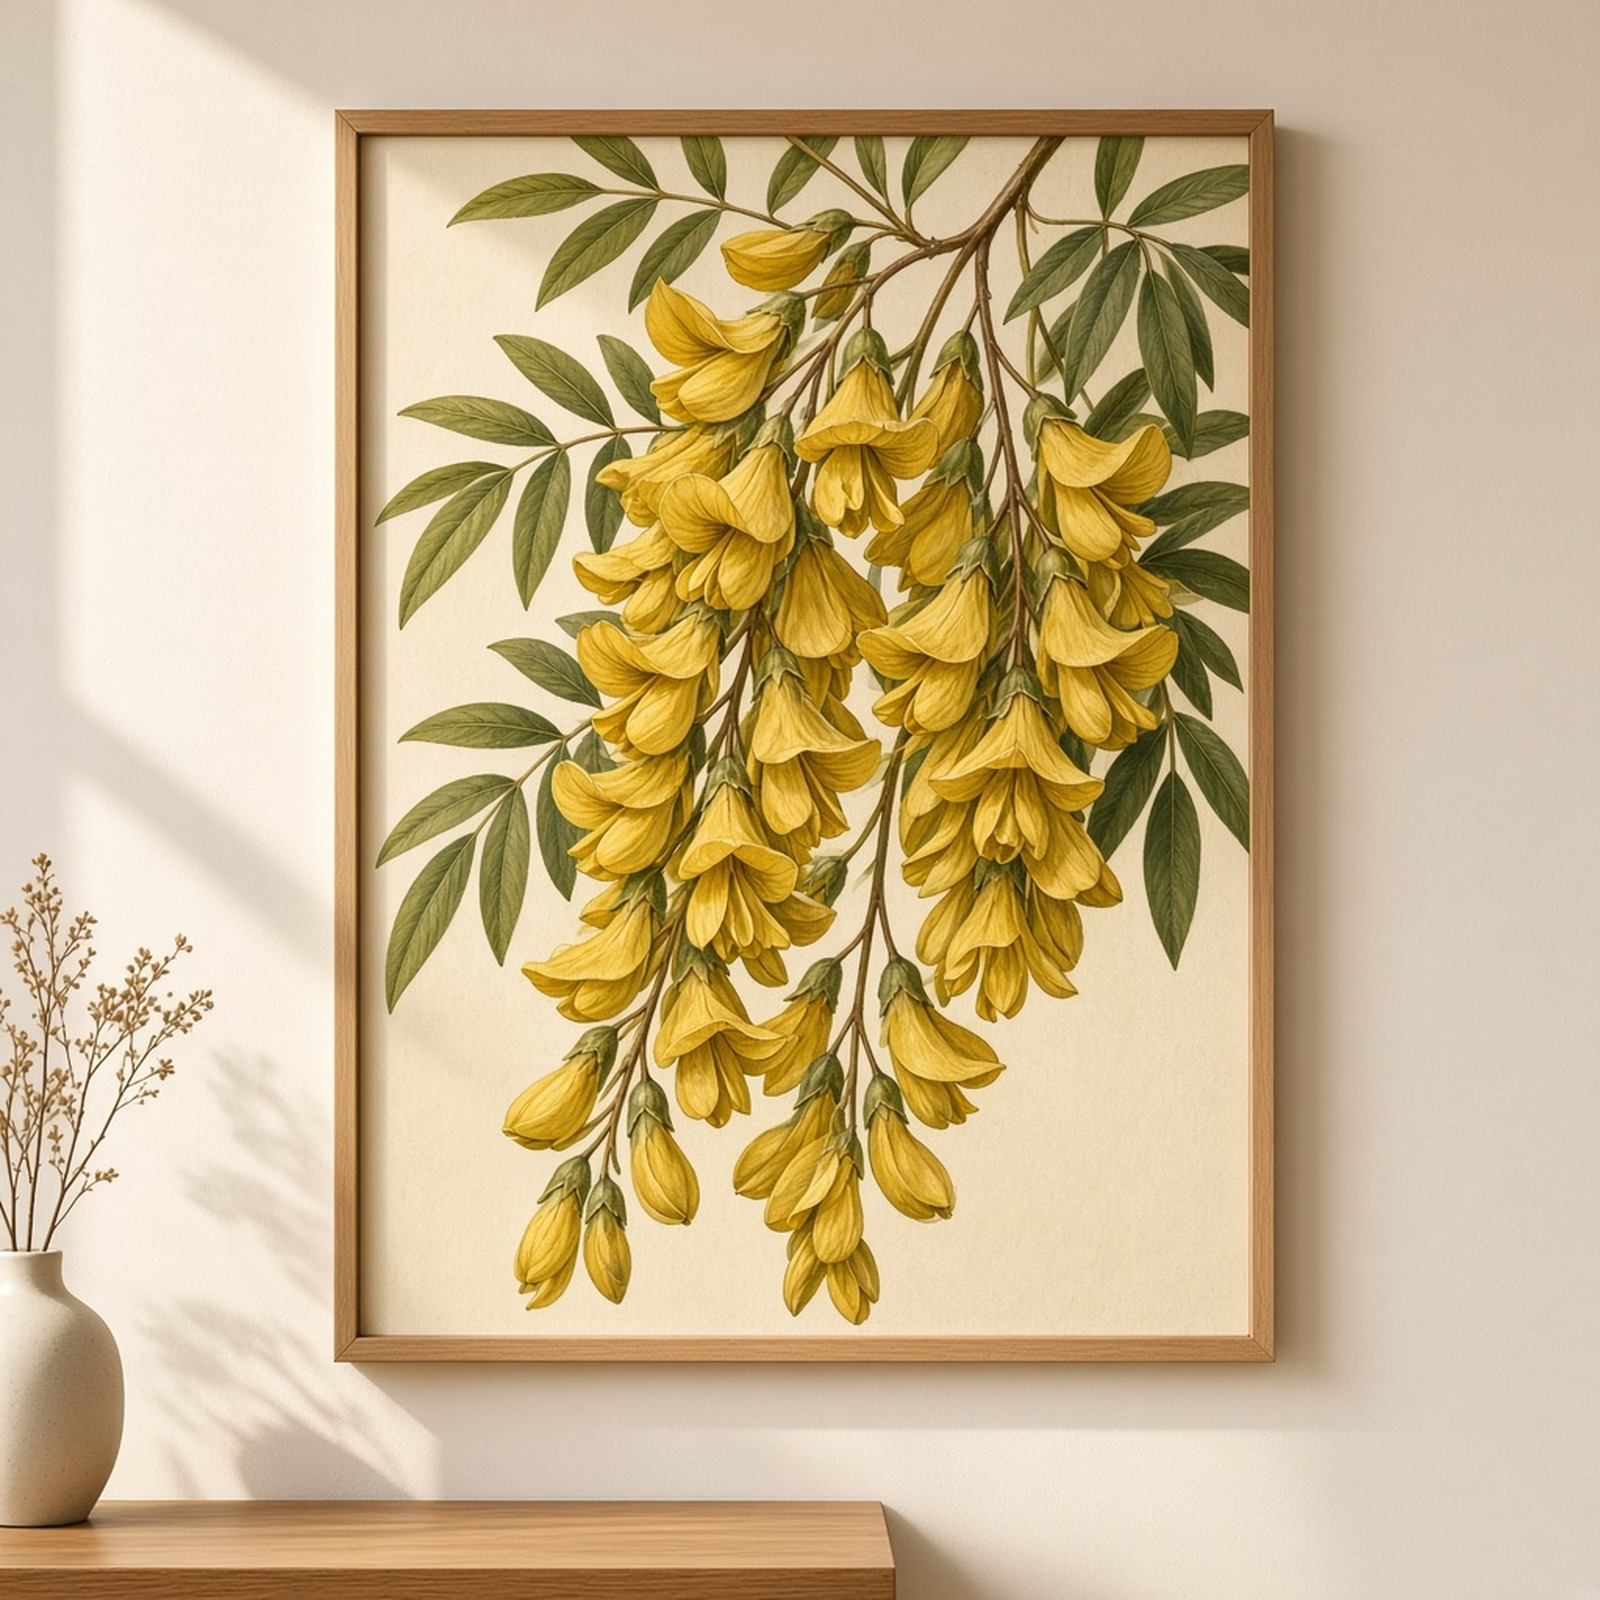
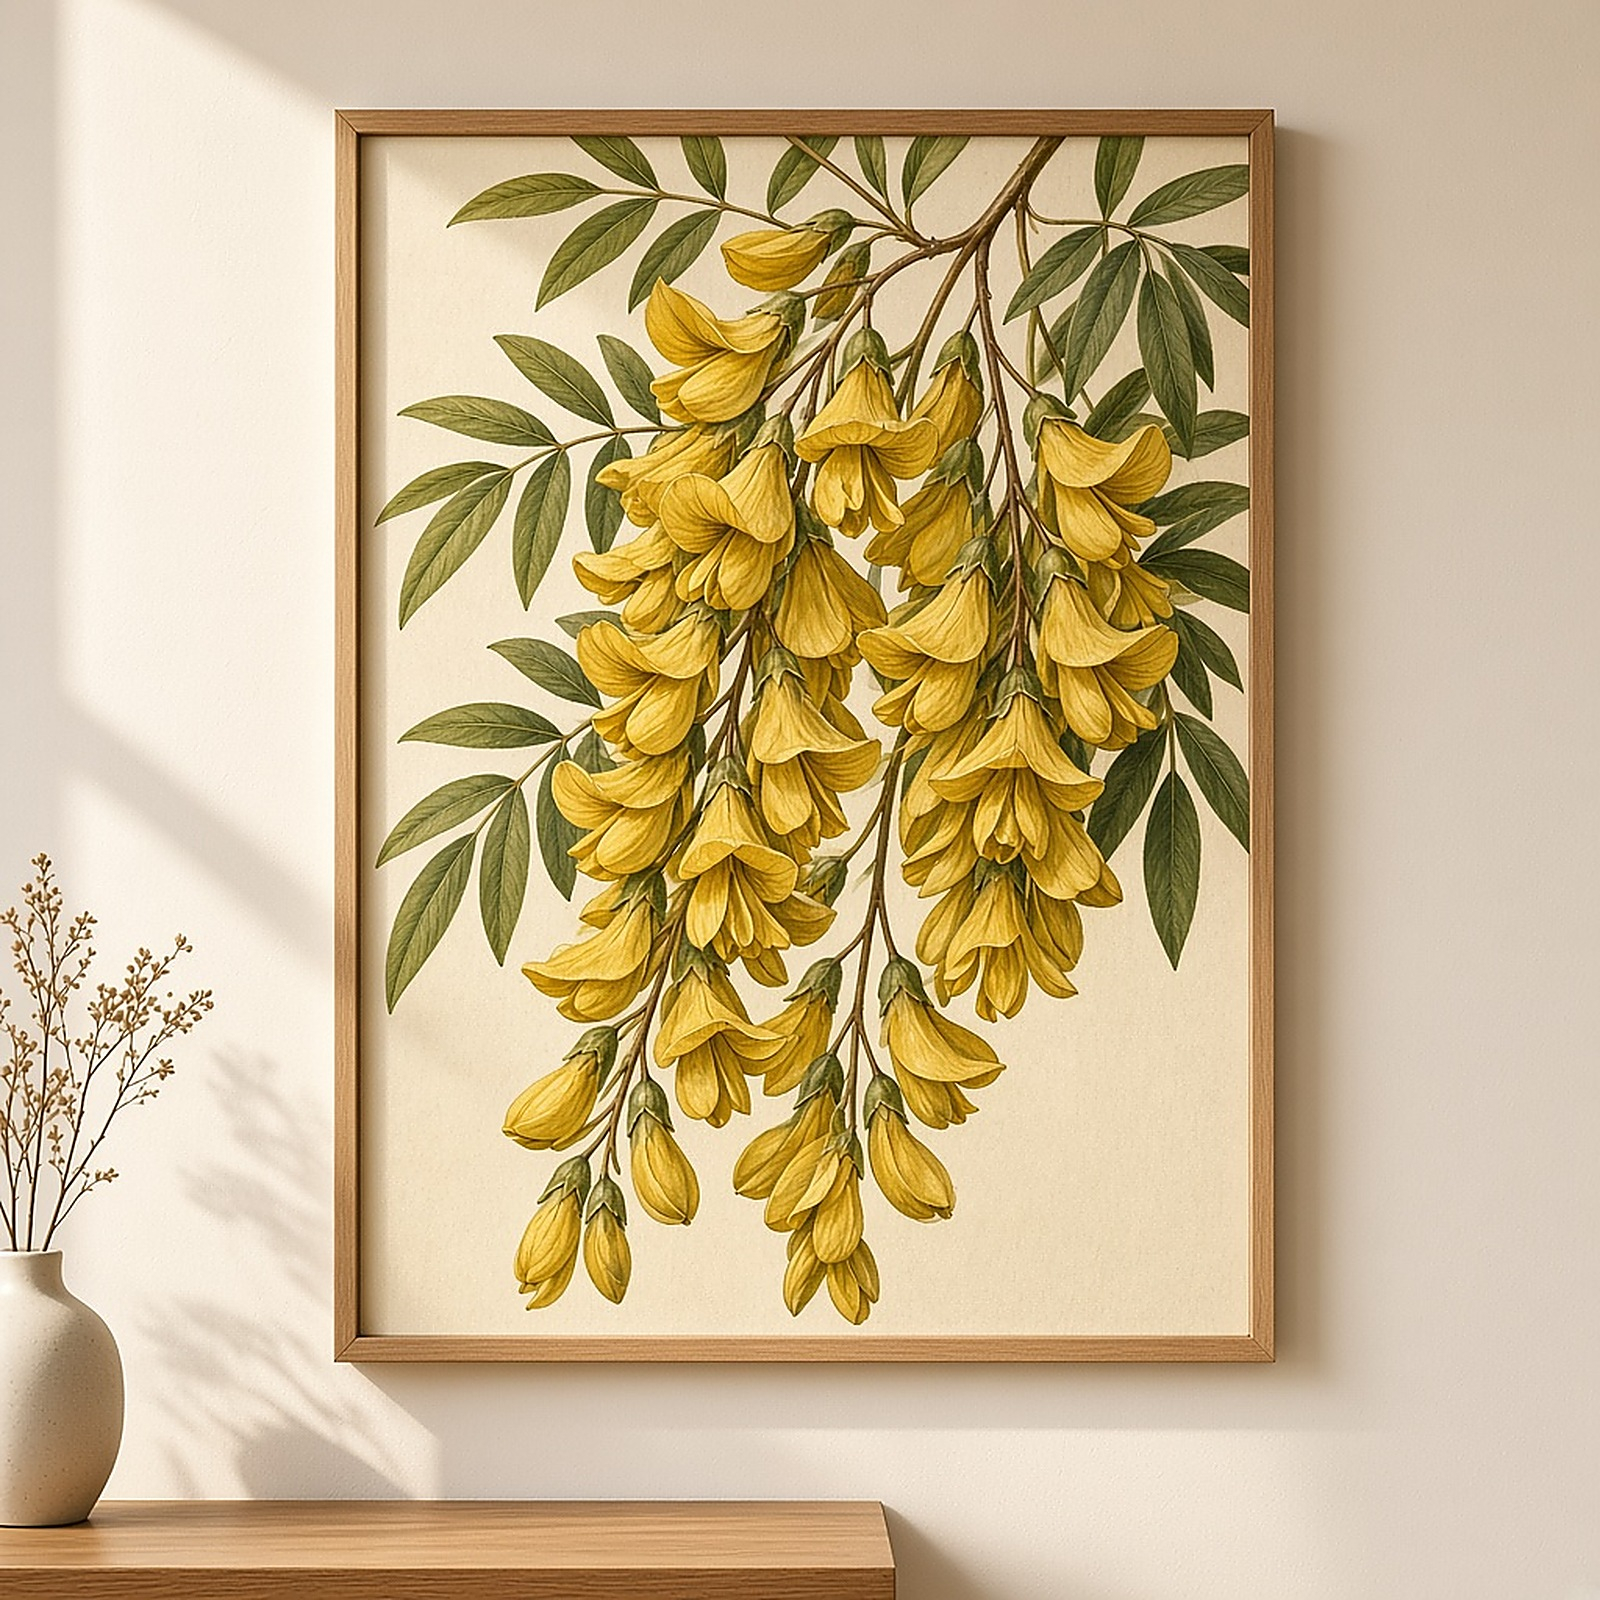
Tighten on-product stills so the design fills the frame.
Chest embroidery was still a small island of color. Crops now target 50% context and 80% close-up fill, put the close-up first in the gallery, and fail the print-files check if a future product ships a tiny design.

diff --git a/src/lib/listing-health.test.ts b/src/lib/listing-health.test.ts
@@ -42,8 +42,8 @@ test("gallery lists the listing photo, print file, and extra stills", () => {
   assert.ok(files.includes("/catalog/catalog-poster.png"));
   assert.ok(files.includes("/catalog/print-poster-fern-arc.png"));
   assert.ok(files.includes("/catalog/gallery-live_poster-onproduct.jpg"));
-  assert.equal(files[1], "/catalog/gallery-live_poster-onproduct.jpg");
-  assert.equal(files[2], "/catalog/gallery-live_poster-onproduct-close.jpg");
+  assert.equal(files[1], "/catalog/gallery-live_poster-onproduct-close.jpg");
+  assert.equal(files[2], "/catalog/gallery-live_poster-onproduct.jpg");
   const sneakers = listingGallery("live_sneaker_star");
   assert.ok(sneakers.includes("/catalog/catalog-camo-sneakers-angle.jpg"));
   assert.ok(sneakers.includes("/catalog/gallery-live_sneaker_star-camo-model.jpg"));
@@ -59,7 +59,8 @@ test("gallery lists the listing photo, print file, and extra stills", () => {
   assert.ok(hoodie.includes("/catalog/catalog-hoodie-bloom-ash.jpg"));
   assert.ok(hoodie.includes("/catalog/catalog-hoodie-bloom-light-pink.jpg"));
   assert.ok(hoodie.includes("/catalog/gallery-live_hoodie_bloom-ghost.jpg"));
-  assert.equal(hoodie[1], "/catalog/gallery-live_hoodie_bloom-onproduct.jpg");
+  assert.equal(hoodie[1], "/catalog/gallery-live_hoodie_bloom-onproduct-close.jpg");
+  assert.equal(hoodie[2], "/catalog/gallery-live_hoodie_bloom-onproduct.jpg");
   const tee = listingGallery("live_tee_bloom");
   assert.ok(tee.includes("/catalog/catalog-tee-bloom.jpg"));
   assert.ok(tee.includes("/catalog/print-tee-bloom.png"));
@@ -67,12 +68,12 @@ test("gallery lists the listing photo, print file, and extra stills", () => {
   assert.ok(tee.includes("/catalog/catalog-tee-bloom-navy.jpg"));
   assert.ok(tee.includes("/catalog/gallery-live_tee_bloom-neck.jpg"));
   assert.ok(tee.includes("/catalog/gallery-live_tee_bloom-ghost.jpg"));
-  assert.equal(tee[1], "/catalog/gallery-live_tee_bloom-onproduct.jpg");
-  assert.equal(tee[2], "/catalog/gallery-live_tee_bloom-onproduct-close.jpg");
+  assert.equal(tee[1], "/catalog/gallery-live_tee_bloom-onproduct-close.jpg");
+  assert.equal(tee[2], "/catalog/gallery-live_tee_bloom-onproduct.jpg");
   const customer = customerListingGallery("live_tee_bloom");
   assert.equal(customer[0], "/catalog/catalog-tee-bloom.jpg");
-  assert.equal(customer[1], "/catalog/gallery-live_tee_bloom-onproduct.jpg");
-  assert.equal(customer[2], "/catalog/gallery-live_tee_bloom-onproduct-close.jpg");
+  assert.equal(customer[1], "/catalog/gallery-live_tee_bloom-onproduct-close.jpg");
+  assert.equal(customer[2], "/catalog/gallery-live_tee_bloom-onproduct.jpg");
   assert.ok(!customer.some((file) => file.includes("/print-")));
   assert.ok(!customer.some((file) => isTemplateStillPath(file)));
   assert.equal(isTemplateStillPath("/catalog/gallery-live_tee_bloom-detail.png"), true);
@@ -117,6 +118,15 @@ test("prices use Printify costs and do not pad for opted-out Offsite Ads", () =>
   assert.equal(catalogPrice("live_tee_bloom"), 75.99);
   const teeGb = catalogLanes("live_tee_bloom").find((lane) => lane.region === "GB");
   assert.equal(teeGb?.printer, "printify");
+});
+
+test("on-product stills are generated from catalog pairs with a minimum design fill", () => {
+  const closeups = readFileSync(new URL("../../scripts/make-design-closeups.py", import.meta.url), "utf8");
+  assert.match(closeups, /CATALOG_ART_PAIRS/);
+  assert.match(closeups, /MIN_FILL/);
+  assert.match(closeups, /apparel_close": 0.72/);
+  assert.match(closeups, /CLOSE_FILL = \{"apparel": 0.80/);
+  assert.doesNotMatch(closeups, /gallery-.+-detail\.png/);
 });
 
 test("Catalog table shows Printify costs and current ads, not Offsite 15%", () => {

diff --git a/src/lib/printify.ts b/src/lib/printify.ts
@@ -679,10 +679,12 @@ function apparelPhotoPlan(key: string) {
       backFile: "gallery-live_tee_bloom-back.jpg",
       modelFile: "gallery-live_tee_bloom-model.jpg",
       neckFile: "gallery-live_tee_bloom-neck.jpg",
+      ghostFile: "gallery-live_tee_bloom-ghost.jpg",
       slug: "grow-with-purpose-embroidered-heavy-cotton-tee",
       frontCamera: TEE_FRONT_CAMERA,
       backCamera: TEE_BACK_CAMERA,
       neckCamera: TEE_NECK_CAMERA,
+      ghostCamera: 92577,
       defaultId: TEE_PRINTIFY_ID,
     };
   }
@@ -694,10 +696,12 @@ function apparelPhotoPlan(key: string) {
     backFile: "gallery-live_hoodie_bloom-back.jpg",
     modelFile: "gallery-live_hoodie_bloom-model.jpg",
     neckFile: "",
+    ghostFile: "gallery-live_hoodie_bloom-ghost.jpg",
     slug: "grow-with-purpose-embroidered-zip-hoodie",
     frontCamera: PRINTIFY_FRONT_CAMERA,
     backCamera: PRINTIFY_BACK_CAMERA,
     neckCamera: 0,
+    ghostCamera: 108337,
     defaultId: HOODIE_PRINTIFY_ID,
   };
 }
@@ -736,6 +740,17 @@ export async function pullPrintifyVariantPhotos(productId?: string, key = "live_
         written.push(`/catalog/${plan.neckFile}`);
       } catch {
         /* neck close-up is optional */
+      }
+    }
+    if (plan.ghostFile && plan.ghostCamera) {
+      try {
+        await downloadPrintifyMockup(
+          `https://images.printify.com/mockup/${id}/${whiteM}/${plan.ghostCamera}/${plan.slug}.jpg`,
+          path.join(destDir, plan.ghostFile),
+        );
+        written.push(`/catalog/${plan.ghostFile}`);
+      } catch {
+        /* ghost/flat camera is the source for on-product design stills */
       }
     }
     const whiteFront = path.join(destDir, plan.fileForColor("white"));

diff --git a/src/lib/printify.test.ts b/src/lib/printify.test.ts
@@ -317,6 +317,8 @@ test("Fernora Printify catalog is nine products including the embroidered zip ho
   assert.match(printify, /syncCustomerDesignPhotos/);
   assert.match(printify, /customerListingGallery\(key\)/);
   assert.match(printify, /deleteEtsyListingImage/);
+  assert.match(printify, /ghostCamera: 92577/);
+  assert.match(printify, /ghostCamera: 108337/);
   assert.doesNotMatch(printify.slice(printify.indexOf("pushOfficialPhotosToEtsy")), /\.slice\(0, 9\)/);
   const pairs = readFileSync(new URL("./print-file.ts", import.meta.url), "utf8");
   for (const spec of FERNORA_PRINTIFY_STARTERS) {

diff --git a/src/lib/listing-health.ts b/src/lib/listing-health.ts
@@ -111,7 +111,7 @@ export function mixTag(collection?: string | null) {
 
 export function designZoomStills(id?: string | null) {
   if (!id) return [];
-  return [`/catalog/gallery-${id}-onproduct.jpg`, `/catalog/gallery-${id}-onproduct-close.jpg`];
+  return [`/catalog/gallery-${id}-onproduct-close.jpg`, `/catalog/gallery-${id}-onproduct.jpg`];
 }
 
 export function isPrintTemplatePath(file?: string | null) {

diff --git a/scripts/make-design-closeups.py b/scripts/make-design-closeups.py
@@ -1,39 +1,50 @@
 #!/usr/bin/env python3
-"""Crop the official product photo so the design is visible on the item.
+"""Crop official product photos so the design fills the customer stills.
 
-Do not publish print-template stills (artwork on cream). Customers see the
-design on the garment, poster, or shoe. Existing cream detail/close files
-are left on disk for print-match checks but are not customer photos.
+Customers never see cream print-template tiles. These stills stay on the real
+item. Fill targets are measured on every run so a future product cannot ship
+a tiny chest logo in a sea of fabric.
+
+Apparel prefers the official ghost/flat camera. Other products use the
+catalog mockup. New CATALOG_ART_PAIRS keys are picked up automatically.
 """
 
 from __future__ import annotations
 
+import re
 import sys
 from pathlib import Path
 
 import numpy as np
-from PIL import Image
+from PIL import Image, ImageFilter
 
 ROOT = Path(__file__).resolve().parents[1]
 OUT = ROOT / "public" / "catalog"
+PRINT_FILE_TS = ROOT / "src" / "lib" / "print-file.ts"
 
-# Official ghost / flat cameras — design on the real product, no model crop guess.
-GHOST = {
-    "live_tee_bloom": "gallery-live_tee_bloom-ghost.jpg",
-    "live_hoodie_bloom": "gallery-live_hoodie_bloom-ghost.jpg",
-}
+# Design bbox / crop-side. Apparel context keeps collar or zipper in frame.
+CONTEXT_FILL = {"apparel": 0.50, "default": 0.62}
+CLOSE_FILL = {"apparel": 0.80, "default": 0.88}
+MIN_FILL = {"apparel_context": 0.45, "apparel_close": 0.72, "default_close": 0.50}
+OUTPUT_SIZE = 1600
 
-PAIRS = (
-    ("live_poster", "catalog-poster.png"),
-    ("live_quote_breathe", "catalog-breathe-here.png"),
-    ("live_botanical_kowhai", "catalog-kowhai-botanical.png"),
-    ("live_canvas_harbour", "catalog-harbour-morning.png"),
-    ("live_frame_kind", "catalog-kind-light.png"),
-    ("live_sneaker_star", "catalog-camo-sneakers-angle.jpg"),
-    ("live_sneaker_star_w", "catalog-star-sneakers-w-angle.jpg"),
-    ("live_hoodie_bloom", "gallery-live_hoodie_bloom-ghost.jpg"),
-    ("live_tee_bloom", "gallery-live_tee_bloom-ghost.jpg"),
-)
+
+def catalog_pairs() -> list[tuple[str, str]]:
+    text = PRINT_FILE_TS.read_text()
+    found = re.findall(r'key: "([^"]+)", mockup: "/catalog/([^"]+)"', text)
+    if not found:
+        raise SystemExit("Could not read CATALOG_ART_PAIRS from print-file.ts")
+    pairs: list[tuple[str, str]] = []
+    for key, mockup in found:
+        ghost = OUT / f"gallery-{key}-ghost.jpg"
+        source = ghost.name if ghost.exists() else mockup
+        pairs.append((key, source))
+    return pairs
+
+
+def is_apparel(key: str, source_name: str) -> bool:
+    blob = f"{key} {source_name}".lower()
+    return "ghost" in blob or any(word in blob for word in ("hoodie", "tee", "sweat", "shirt"))
 
 
 def chroma_mask(rgb: np.ndarray) -> np.ndarray:
@@ -43,28 +54,64 @@ def chroma_mask(rgb: np.ndarray) -> np.ndarray:
     return (chroma > 26) & ~near_white
 
 
+def ink_mask(rgb: np.ndarray) -> np.ndarray:
+    luma = 0.299 * rgb[:, :, 0] + 0.587 * rgb[:, :, 1] + 0.114 * rgb[:, :, 2]
+    return luma < 178
+
+
 def design_bbox(im: Image.Image, apparel: bool) -> tuple[int, int, int, int]:
-    arr = np.array(im.convert("RGB"))
-    mask = chroma_mask(arr)
+    rgb = np.array(im.convert("RGB"))
+    mask = chroma_mask(rgb)
     h, w = mask.shape
     if apparel:
-        # Ignore hair / jeans / room; keep the garment body.
-        mask[: int(h * 0.22)] = False
-        mask[int(h * 0.72) :] = False
-        mask[:, : int(w * 0.22)] = False
-        mask[:, int(w * 0.82) :] = False
+        mask[: int(h * 0.20)] = False
+        mask[int(h * 0.74) :] = False
+        mask[:, : int(w * 0.18)] = False
+        mask[:, int(w * 0.86) :] = False
+    else:
+        ink = ink_mask(rgb)
+        if int(ink.sum()) > 400:
+            mask = ink
     ys, xs = np.nonzero(mask)
     if len(xs) < 80:
         return (int(w * 0.28), int(h * 0.28), int(w * 0.72), int(h * 0.72))
     return int(xs.min()), int(ys.min()), int(xs.max()) + 1, int(ys.max()) + 1
 
 
-def square_crop(im: Image.Image, box: tuple[int, int, int, int], pad_ratio: float, size: int = 1600) -> Image.Image:
+def measured_fill(im: Image.Image) -> float:
+    x0, y0, x1, y1 = design_bbox(im, apparel=False)
+    return max(x1 - x0, y1 - y0) / max(1, max(im.size))
+
+
+def colorful_fill(im: Image.Image) -> float:
+    mask = chroma_mask(np.array(im.convert("RGB")))
+    ys, xs = np.nonzero(mask)
+    if len(xs) < 80:
+        return 0.0
+    return max(int(xs.max()) - int(xs.min()), int(ys.max()) - int(ys.min())) / max(1, max(im.size))
+
+
+def place_square(
+    im: Image.Image,
+    box: tuple[int, int, int, int],
+    fill: float,
+    bias: tuple[float, float] = (0.0, 0.0),
+    size: int = OUTPUT_SIZE,
+) -> Image.Image:
     x0, y0, x1, y1 = box
     bw, bh = max(1, x1 - x0), max(1, y1 - y0)
-    side = int(max(bw, bh) * pad_ratio)
-    cx, cy = (x0 + x1) // 2, (y0 + y1) // 2
+    design = max(bw, bh)
+    side = max(int(round(design / max(0.12, fill))), design + 16)
+    pad = max(8, int(design * 0.08))
+    cx = (x0 + x1) // 2 + int(side * bias[0])
+    cy = (y0 + y1) // 2 + int(side * bias[1])
     half = side // 2
+    min_cx, max_cx = x1 - half + pad, x0 + half - pad
+    min_cy, max_cy = y1 - half + pad, y0 + half - pad
+    if min_cx <= max_cx:
+        cx = min(max(cx, min_cx), max_cx)
+    if min_cy <= max_cy:
+        cy = min(max(cy, min_cy), max_cy)
     left = max(0, cx - half)
     top = max(0, cy - half)
     right = min(im.size[0], left + side)
@@ -72,7 +119,8 @@ def square_crop(im: Image.Image, box: tuple[int, int, int, int], pad_ratio: floa
     left = max(0, right - side)
     top = max(0, bottom - side)
     crop = im.convert("RGB").crop((left, top, right, bottom))
-    return crop.resize((size, size), Image.Resampling.LANCZOS)
+    sharp = crop.resize((size, size), Image.Resampling.LANCZOS)
+    return sharp.filter(ImageFilter.UnsharpMask(radius=1.3, percent=145, threshold=2))
 
 
 def write_stills(key: str, source_name: str) -> str:
@@ -81,38 +129,66 @@ def write_stills(key: str, source_name: str) -> str:
     close = OUT / f"gallery-{key}-onproduct-close.jpg"
     if not src.exists():
         return f"MISSING {source_name}"
+    if re.search(r"(print-|-(detail|close)\.)", source_name) and "onproduct" not in source_name:
+        return f"REFUSED template source {source_name}"
     im = Image.open(src)
-    apparel = key in GHOST
+    apparel = is_apparel(key, source_name)
     box = design_bbox(im, apparel=apparel)
-    square_crop(im, box, 3.4 if apparel else 1.8).save(wear, "JPEG", quality=92)
-    square_crop(im, box, 1.7 if apparel else 1.15).save(close, "JPEG", quality=92)
-    return f"wrote {key} from {source_name}"
+    kind = "apparel" if apparel else "default"
+    context_bias = (-0.18 if apparel else 0.0, -0.16 if apparel else 0.0)
+    if apparel:
+        img_cx = im.size[0] / 2
+        design_cx = (box[0] + box[2]) / 2
+        context_bias = (-0.20 if design_cx > img_cx else 0.08, -0.16)
+    place_square(im, box, CONTEXT_FILL[kind], context_bias).save(wear, "JPEG", quality=93)
+    place_square(im, box, CLOSE_FILL[kind]).save(close, "JPEG", quality=93)
+    return f"wrote {key} from {source_name} fill ctx={CONTEXT_FILL[kind]} close={CLOSE_FILL[kind]}"
+
+
+def check_one(key: str, source_name: str) -> str | None:
+    wear = OUT / f"gallery-{key}-onproduct.jpg"
+    close = OUT / f"gallery-{key}-onproduct-close.jpg"
+    src = OUT / source_name
+    if not src.exists() or not wear.exists() or not close.exists():
+        return f"MISSING on-product stills for {key}"
+    apparel = is_apparel(key, source_name)
+    wear_im = Image.open(wear)
+    close_im = Image.open(close)
+    ctx = colorful_fill(wear_im) if apparel else measured_fill(wear_im)
+    cl = colorful_fill(close_im) if apparel else measured_fill(close_im)
+    if apparel:
+        if ctx < MIN_FILL["apparel_context"]:
+            return f"{key} context fill {ctx:.2f} < {MIN_FILL['apparel_context']}"
+        if cl < MIN_FILL["apparel_close"]:
+            return f"{key} close fill {cl:.2f} < {MIN_FILL['apparel_close']}"
+    elif cl < MIN_FILL["default_close"]:
+        return f"{key} close fill {cl:.2f} < {MIN_FILL['default_close']}"
+    print(f"ok {key} on-product stills ctx={ctx:.2f} close={cl:.2f}")
+    return None
 
 
 def check_only() -> int:
     failed = 0
-    for key, source_name in PAIRS:
-        wear = OUT / f"gallery-{key}-onproduct.jpg"
-        close = OUT / f"gallery-{key}-onproduct-close.jpg"
-        if not (OUT / source_name).exists() or not wear.exists() or not close.exists():
-            print(f"MISSING on-product stills for {key}")
+    for key, source_name in catalog_pairs():
+        error = check_one(key, source_name)
+        if error:
+            print(error)
             failed += 1
-            continue
-        print(f"ok {key} on-product stills")
     return failed
 
 
 def main() -> None:
+    pairs = catalog_pairs()
     if "--check" in sys.argv:
         failed = check_only()
         if failed:
-            raise SystemExit(f"{failed} product(s) missing on-product stills")
+            raise SystemExit(f"{failed} product(s) failed on-product still checks")
         return
-    for key, source_name in PAIRS:
+    for key, source_name in pairs:
         print(write_stills(key, source_name))
     failed = check_only()
     if failed:
-        raise SystemExit(f"{failed} product(s) missing on-product stills")
+        raise SystemExit(f"{failed} product(s) failed on-product still checks")
 
 
 if __name__ == "__main__":
